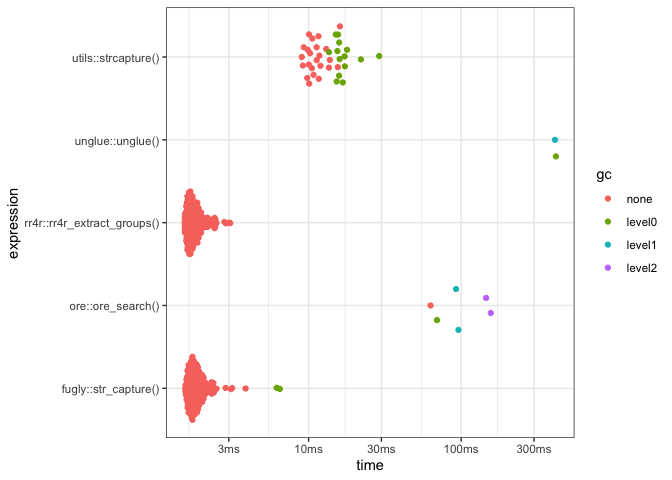
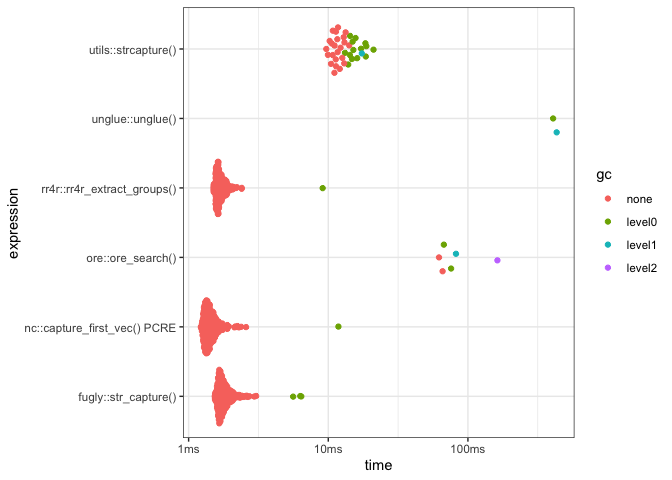
add nc comparison

diff --git a/README.md b/README.md
@@ -120,6 +120,9 @@ str_capture(string, pattern = '"number":"{number}","street":"{street}".*?"coordi
 I acknowledge that this isn’t the greatest benchmark, but it is relevant
 to my current use-case.
 
+-   [nc](https://github.com/tdhock/nc) with the PCRE regex engine is the
+    fastest named capture I could find in R.
+    -   However - I’m not a huge fan of its syntax
 -   For large inputs (1000+ input strings), `fugly` is significantly
     faster than `unglue`, `utils::strcapture` and \``ore`
 -   The rust regex engine
@@ -131,6 +134,7 @@ to my current use-case.
 ``` r
 # remotes::install_github("jonclayden/ore")
 # remotes::install_github("yutannihilation/rr4r")
+# remotes::install_github('qinwf/re2r') 
 library(ore)
 library(rr4r)
 library(unglue)
@@ -140,7 +144,6 @@ library(ggplot2)
 N <- 1000
 string <- paste0("Information name:greg age:", seq(N))
 
-
 res <- bench::mark(
   `fugly::str_capture()` = fugly::str_capture(string, "name:{name} age:{age=\\d+}"),
   `unglue::unglue()` = unglue::unglue_data(string, "Information name:{name} age:{age=\\d+}"),
@@ -148,6 +151,7 @@ res <- bench::mark(
                     proto = data.frame(name=character(), age=character())),
   `ore::ore_search()` = do.call(rbind.data.frame, lapply(ore_search(ore('name:(?<name>.*?) age:(?<age>\\d+)', encoding='utf8'), string, all=TRUE), function(x) {x$groups$matches})),
    `rr4r::rr4r_extract_groups()` = rr4r::rr4r_extract_groups(string, "name:(?P<name>.*?) age:(?P<age>\\d+)"),
+  `nc::capture_first_vec() PCRE` = nc::capture_first_vec(string, "Information name:", name=".*?", " age:", age="\\d+", engine = 'PCRE'),
   check = FALSE
 )
 ```
@@ -166,6 +170,7 @@ res <- bench::mark(
 -   [namedCapture](https://cran.r-project.org/web/packages/namedCapture/index.html)
     Note: I couldn’t get this to work sanely.
 -   [rr4f](https://github.com/yutannihilation/rr4r) rust regex engine
+-   [nc](https://github.com/tdhock/nc)
 
 ## Acknowledgements
 
